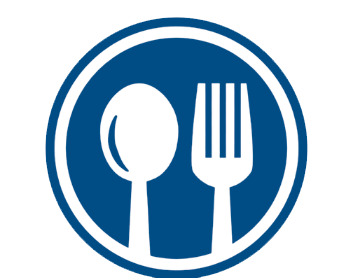
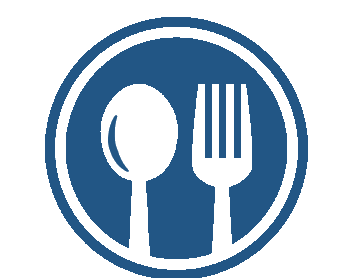
addes

diff --git a/index.html b/index.html
@@ -8,6 +8,7 @@
   <link rel="stylesheet" href="styles.css">
 
   <!-- TIPOGRAFÍAS DEL PROYECTO -->
+   <link href="https://fonts.googleapis.com/css2?family=Playfair+Display:ital,wght@0,400..900;1,400..900&display=swap" rel="stylesheet">
   <link rel="preconnect" href="https://fonts.googleapis.com">
   <link rel="preconnect" href="https://fonts.gstatic.com" crossorigin>
   <link href="https://fonts.googleapis.com/css2?family=Alex+Brush&family=Allura&family=Cinzel+Decorative:wght@400;700&family=Great+Vibes&family=Parisienne&family=Pinyon+Script&family=Playfair+Display:ital,wght@0,400..900;1,400..900&family=Sacramento&display=swap" rel="stylesheet">
@@ -49,8 +50,8 @@
 
     <!-- A. Primera caja de texto con efecto máquina y reproductor de audio dentro -->
     <section class="caja-contenido">
-      <p class="efecto-maquina" id="textoMaquina">UNA NOCHE, CON MIL ESTRELLAS, DONDE CADA UNA GUARDA UN SUEÑO Y HOY QUIERO COMPARTIR UNO DE LOS MIOS CONTIGO</p>
-      
+      <p class="efecto-maquina" id="textoMaquina" style="color: #225685;">UNA NOCHE, CON MIL ESTRELLAS, DONDE CADA UNA GUARDA UN SUEÑO Y HOY QUIERO COMPARTIR UNO DE LOS MIOS CONTIGO</p>
+    </section>
       <!-- Reproductor de audio minimalista -->
       <div class="reproductor-minimalista" style="margin-top: 20px;">
         <audio id="miAudio" preload="metadata" loop>
@@ -123,8 +124,14 @@
     </section>
 
     <!-- D. Sección Dress Code -->
-    <section class="caja-contenido">
-      <h2 class="titulo-seccion-elegante">DRESS CODE</h2>
+<section class="caja-contenido" style="text-align: center;">
+      <!-- Contenedor para las dos imágenes decorativas superiores -->
+      <div style="display: flex; justify-content: center; align-items: center; gap: 15px; margin-bottom: 12px;">
+        <img src="canva/asset/dresswom.png" alt="Decoración Dress Code 1" style="width: 45px; height: auto; object-fit: contain;">
+        <img src="canva/asset/dressMale.png" alt="Decoración Dress Code 2" style="width: 45px; height: auto; object-fit: contain;">
+      </div>
+
+      <h2 class="titulo-seccion-elegante" style="margin-top: 0;">DRESS CODE</h2>
       <span class="titulo-pequeno">FORMAL</span>
     </section>
 
@@ -153,29 +160,31 @@
     </section>
 
     <!-- E. Sección Mesa de Regalos / Enlace -->
-    <section class="caja-contenido caja-texto-boton">
-      <p class="texto-seccion-bloque">
+   <section class="caja-contenido caja-texto-boton">
+      <p class="texto-seccion-bloque" style="color: #225685;">
         Tu presencia es mi mejor regalo. Pero si no sabes qué obsequiarme y deseas tener un detalle conmigo. <br>¡ME HARÍAS MUY FELIZ AYUDÁNDOME A CUMPLIR MIS SUEÑOS!
       </p>
+    </section>
       
-      <!-- Contenedor que agrupa ambos botones lado a lado -->
-      <div class="contenedor-dos-botones" style="margin-top: 20px;">
-        <!-- Botón 1 -->
+     <!-- Contenedor que agrupa la imagen arriba y el botón abajo -->
+      <div class="contenedor-dos-botones" style="margin-top: 20px; display: flex; flex-direction: column; align-items: center; gap: 15px;">
+        
+        <!-- Imagen decorativa (ya no es un botón) -->
+        <div class="tarjeta-imagen-estatica">
+          <img src="canva/asset/giftblue.png" alt="Decoración regalo" class="img-boton">
+        </div>
+
+        <!-- Botón principal (Datos bancarios / Micrófono) -->
         <a href="datosbancarios.html" rel="noopener noreferrer" class="tarjeta-boton">
           <img src="canva/asset/MICROFONO.png" alt="Ir a datos bancarios" class="img-boton">
+          <span class="texto-boton" style="margin-top: 10px;">Da click</span>
         </a>
 
-        <!-- Botón 2 -->
-        <a href="datosbancarios.html" target="_blank" rel="noopener noreferrer" class="tarjeta-boton">
-          <img src="canva/asset/giftblue.png" alt="Segundo botón" class="img-boton">
-        </a>
       </div>
-      <span class="texto-boton" style="margin-top: 10px;">Da click</span>
-    </section>
 
     <!-- F. Sección Canción / Playlist -->
     <section class="caja-contenido">
-      <h2 class="titulo-cinzel texto-seccion-bloque2">¿Qué canción no puede faltar en la playlist?</h2>
+ <h2 class="titulo-cinzel texto-seccion-bloque2" >¿Qué canción no puede faltar en la playlist?</h2>
       <div class="contenedor-imagen-ritmo" style="margin-top: 15px;">
         <img src="canva/asset/musica.png" alt="Detalle Musical" class="img-balanceo-musical">
       </div>
@@ -183,18 +192,20 @@
     </section>
 
     <!-- G. Frase Final -->
-    <section class="caja-contenido">
-      <p class="texto-principal-playfair texto-seccion-bloque">
+   <section class="caja-contenido">
+<section class="caja-contenido">
+      <p class="texto-principal-playfair texto-seccion-bloque" style="font-size: 1.4rem; line-height: 1.5; color: #225685;">
         "Espero vengas a brillar conmigo en esta noche especial."
       </p>
-    </section>
+  </section>
+  </section>
 
     <!-- Sección final para el botón de Confirmar Asistencia -->
-    <section class="caja-contenido caja-boton-final-centrado">
-      <a href="URL_DE_CONFIRMACION" target="_blank" rel="noopener noreferrer" class="btn-encabezado btn-grande-final">
-        Confirmar Asistencia
-      </a>
-    </section>
+<section class="caja-contenido caja-boton-final-centrado">
+  <a href="URL_DE_CONFIRMACION" target="_blank" rel="noopener noreferrer" class="btn-encabezado btn-grande-final">
+    <span style="font-family: 'Playfair Display', serif !important; text-transform: none !important;">Confirmar Asistencia</span>
+  </a>
+</section>
   </main>
 
   <!-- 5. SCRIPTS JAVASCRIPT -->

diff --git a/styles.css b/styles.css
@@ -2,7 +2,7 @@
    1. FUENTES Y RESETEO GLOBAL
    ======================================================= */
 @import url('https://fonts.googleapis.com/css2?family=Alex+Brush&family=Allura&family=Cinzel+Decorative:wght@400;700&family=Great+Vibes&family=Parisienne&family=Pinyon+Script&family=Playfair+Display:ital,wght@0,400..900;1,400..900&family=Sacramento&display=swap');
-
+@import url('https://fonts.googleapis.com/css2?family=Playfair+Display:ital,wght@0,400..900;1,400..900&display=swap');
 @font-face {
   font-family: 'Brittany Signature';
   src: url('fuentes/brittany-signature.ttf') format('truetype');
@@ -82,9 +82,8 @@ body {
   flex-direction: column;
   align-items: center;
   justify-content: center;
-  overflow: visible !important; /* Vital para que el botón sobresalga hacia abajo */
+  overflow: visible !important; /* <--- Esto es vital para que el botón no se corte ni se mueva al fondo */
 }
-
 .bloque-titulos-encabezado {
   text-align: center;
   display: flex;
@@ -539,12 +538,11 @@ body {
 
 /* Botón redondo posicionado exactamente a la mitad del borde del header */
 .contenedor-btn-redondo-orilla {
-  position: absolute;
-  bottom: -35px !important;
-  top: auto !important;
-  left: 50%;
-  transform: translateX(-50%);
-  z-index: 10000;
+  position: absolute !important;
+  top: 190px !important; /* Coincide exactamente con la altura del header de escritorio */
+  left: 50% !important;
+  transform: translate(-50%, -50%) !important; /* Lo centra horizontalmente y lo sube la mitad para que quede entre el header y la carta */
+  z-index: 10000 !important;
   transition: opacity 0.4s ease, transform 0.4s ease;
 }
 
@@ -582,6 +580,7 @@ body {
 
 /* ESTILOS PARA EL BOTÓN DE CONFIRMAR ASISTENCIA FINAL */
 .caja-boton-final-centrado {
+
   display: flex;
   justify-content: center;
   align-items: center;
@@ -593,8 +592,14 @@ body {
   border: none !important;
   box-shadow: none !important;
 }
+.btn-grande-final {
+  font-family: 'Playfair Display', serif !important;
+  font-weight: 600 !important;
+}
 
 .btn-grande-final {
+ font-family: 'Playfair Display', serif !important;
+  font-weight: 600 !important; /* Asegura que tome un grosor elegante y visible */
   font-size: 1rem;       
   padding: 16px 36px;    
   letter-spacing: 2.5px; 
@@ -832,6 +837,7 @@ body {
   }
 
   .btn-grande-final {
+    font-family: 'Playfair Display', serif   ;
     font-size: 0.95rem;  
     padding: 14px 28px;  
     width: 90%;          
@@ -841,4 +847,13 @@ body {
   .caja-contenido .caja-texto p {
     font-size: 0.95rem;
   }
+}
+.tarjeta-boton,
+.btn-encabezado,
+.btn-grande-final,
+.texto-boton,
+button,
+a.tarjeta-boton {
+  font-family: 'Playfair Display', serif !important;
+  letter-spacing: 1px; /* Hace que las letras respiren elegantemente */
 }
